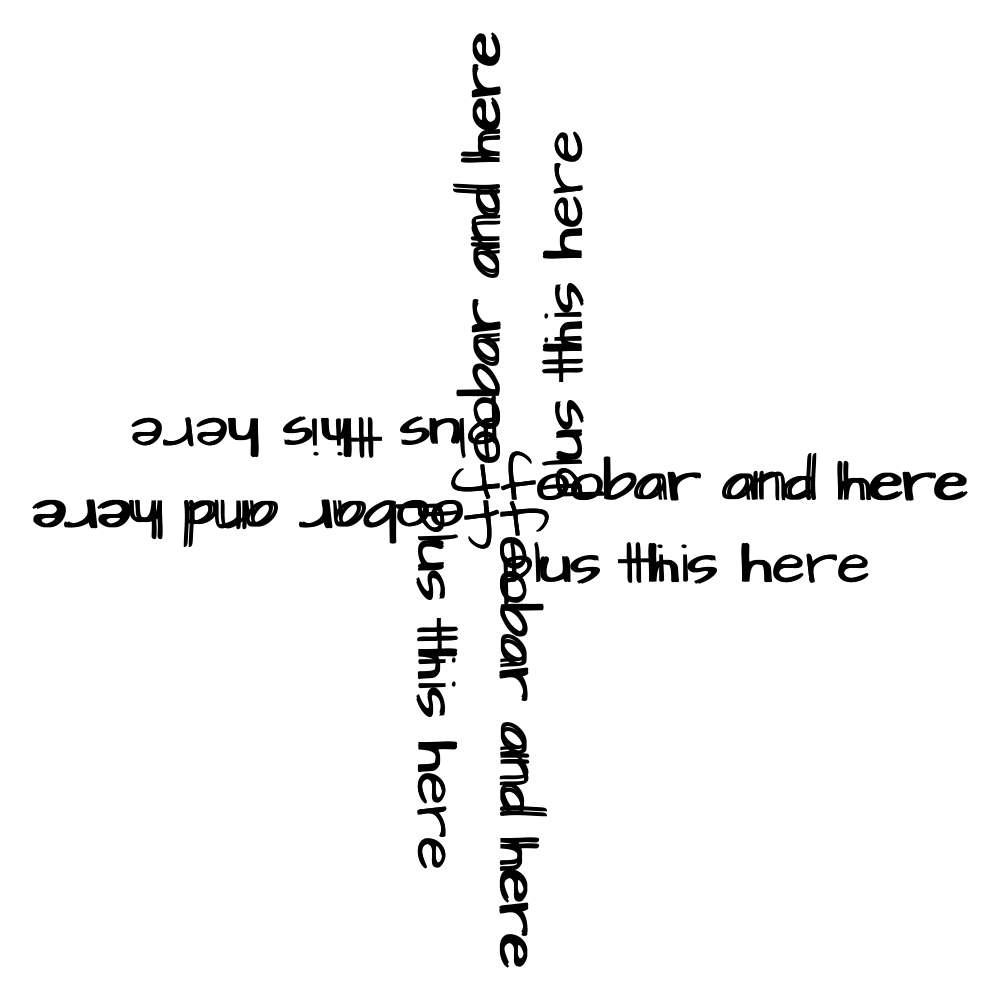
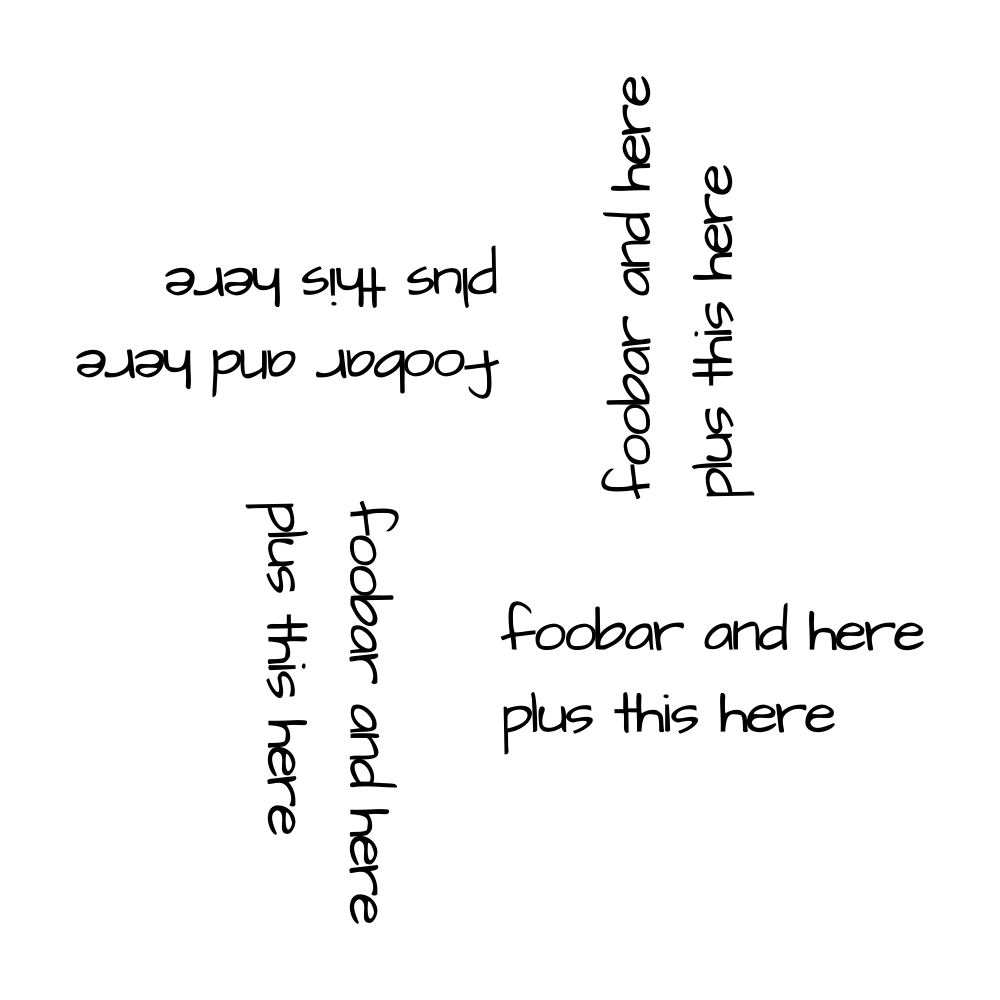
add letter-spacing method

diff --git a/svg/debug/foo.go b/svg/debug/foo.go
@@ -4,6 +4,7 @@ import (
 	"github.com/fogleman/gg"
 	"github.com/golang/freetype/truetype"
 	"golang.org/x/image/font"
+	"golang.org/x/image/math/fixed"
 	"image/color"
 	"io/ioutil"
 	"strings"
@@ -22,9 +23,6 @@ func main() {
 		panic("fontfile not found: " + fontfile + " " + err.Error())
 	}
 	fontRes, err := truetype.Parse(fontData)
-	//c := freetype.NewContext()
-	//c.SetFont(fontRes)
-	//c.
 	if err != nil {
 		panic("fontRes cannot be parsed: " + err.Error())
 	}
@@ -46,10 +44,7 @@ func main() {
 	text.SetFontFace(fontFace)
 	text.SetRGB(0, 0, 0)
 	for i := 0; i < 4; i++ {
-		for j, line := range strings.Split(str, "\n") {
-			text.DrawString(line, r, r+float64(j)*1.37*h)
-		}
-		DrawString(text, str, r, r, 1.0, &fontFace)
+		DrawString(text, str, r, r+150, -0.1, &fontFace)
 		text.RotateAbout(gg.Radians(90), r, r)
 	}
 	err = text.SavePNG("text.png")
@@ -63,36 +58,28 @@ func main() {
 	}
 }
 
-type ContextWithLetterSpacing struct {
-	gg.Context
-	letterSpacing float64
-}
-
-func NewContext(width, height int, letterSpacing float64) *ContextWithLetterSpacing {
-	ctx := gg.NewContext(width, height)
-	return &ContextWithLetterSpacing{
-		*ctx,
-		letterSpacing,
-	}
-}
-
 func DrawString(c *gg.Context, s string, x, y, letterSpacing float64, ff *font.Face) {
 	formerX := x
-	_, h := c.MeasureString(s)
+	h := float64((*ff).Metrics().Height >> 6)
 	for i, line := range strings.Split(s, "\n") {
+		var prevC = rune(-1)
 		y += float64(i) * 1.37 * h
 		x = formerX
-		for j, r := range line {
-			if j != 0 {
-				a, ok := (*ff).GlyphAdvance(r)
-				if !ok {
-					panic("not OK")
-				}
-				af := 0.0
-				af += float64(a.Ceil()) + float64(a.Floor()/1000000)
-				x += af
+		for _, r := range line {
+			var a fixed.Int26_6
+			if prevC >= 0 {
+				a += (*ff).Kern(prevC, r)
+			}
+			tmp, ok := (*ff).GlyphAdvance(r)
+			if !ok {
+				continue
 			}
 			c.DrawString(string(r), x, y)
+			a += tmp
+			af := float64(a >> 6)
+			af += af * letterSpacing
+			x += af
+			prevC = r
 		}
 	}
 }
